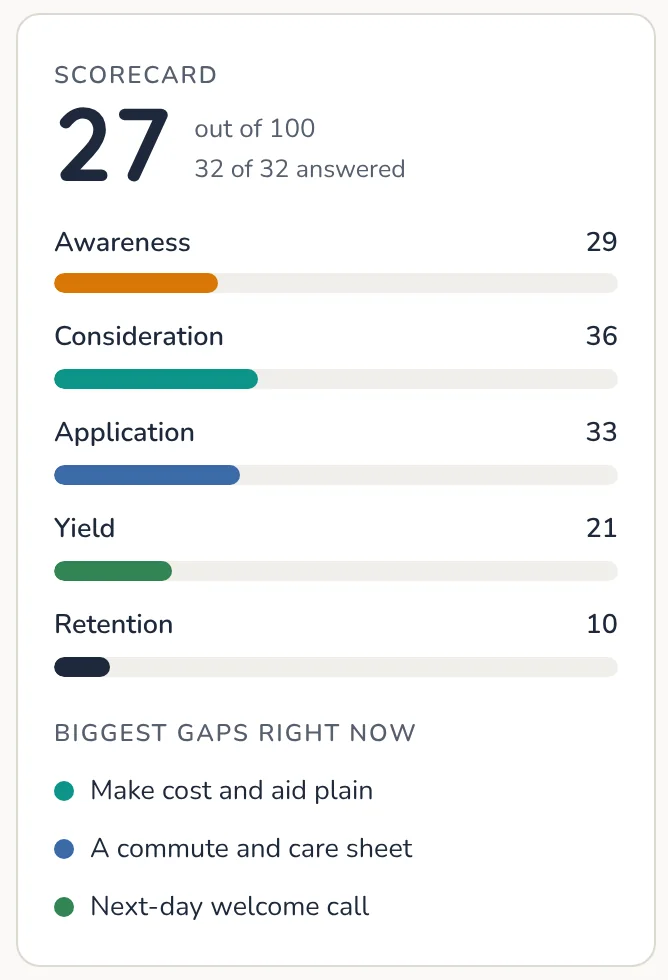
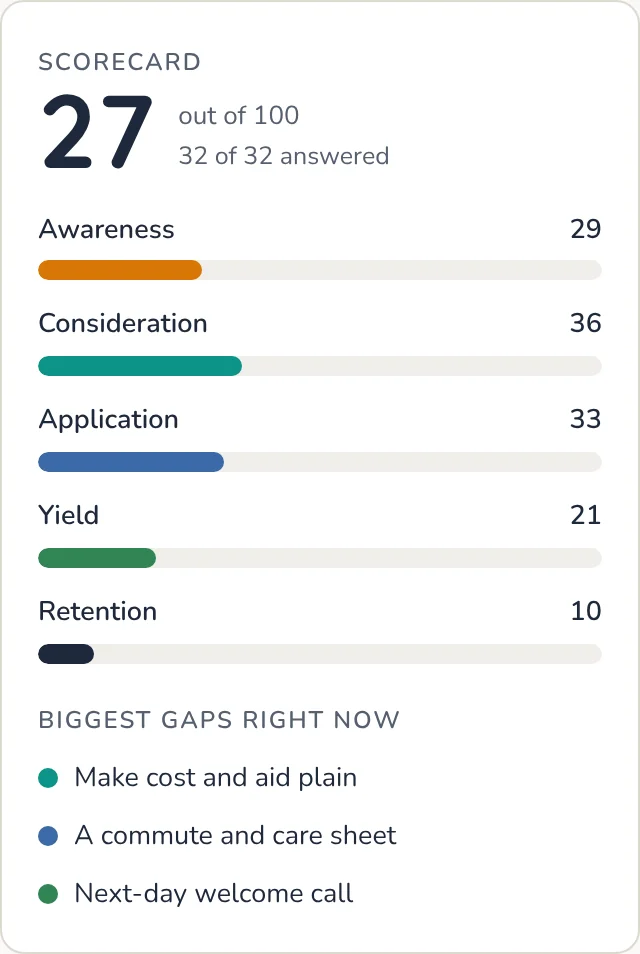
Break up the home page scroll
- The Enrollment Path band is ink and full-bleed, so the page no longer
  runs 4.6 desktop screens of paper before its first change of ground.
  Its scorecard picture is cropped to the card's edge.
- The FAQ answers fold under their questions with native <details>.
  verify-content's FAQ check allows a </summary> between question and
  answer; changing one visible answer still fails it.
- The partners and Building Hope bands are one band, with the incubator
  and the two funders side by side under small labels.

The home page is 652px shorter at 1440 and 806px shorter at 390.
npm test passes.

Claude-Session: https://claude.ai/code/session_016gTnYXw1uXBTqiX4YJ5rRm

diff --git a/index.html b/index.html
@@ -415,7 +415,7 @@
        it sits apart from the three tool cards, is never called free, and
        opens in the same tab. The picture is the real tool's scorecard for
        its built-in example school, not a mock. -->
-  <section class="section enroll-band" aria-labelledby="enroll-heading">
+  <section class="enroll-band" aria-labelledby="enroll-heading">
     <div class="enroll-text">
       <div class="label">Recruitment and enrollment</div>
       <h2 id="enroll-heading">Fill the seats your budget counts on.</h2>
@@ -427,7 +427,7 @@
       </a>
     </div>
     <figure class="enroll-shot">
-      <img src="images/enrollment-scorecard.webp" width="668" height="980" loading="lazy"
+      <img src="images/enrollment-scorecard.webp" width="640" height="954" loading="lazy"
            alt="The Enrollment Path scorecard for its example school: 27 out of 100, a score for each of five stages from awareness to retention, and the three biggest gaps.">
       <figcaption>The scorecard from the example audit</figcaption>
     </figure>
@@ -649,34 +649,38 @@
     <p class="founder-link"><a href="/about">Meet the people behind SchoolStack</a></p>
   </section>
 
-  <!-- PARTNERS -->
-  <section class="section backing" style="padding-top: 0;">
-    <div class="label">Our partners</div>
-    <h2>Backed by organizations that believe in education</h2>
-    <div class="partner-row">
-      <a class="partner" href="https://standtogethertrust.org" target="_blank" rel="noopener noreferrer">
-        <span class="partner-mark"><img src="images/stt-logo.png" alt="Stand Together Trust" width="813" height="500" style="max-height: 72px; max-width: 100%; width: auto; height: auto;" loading="lazy"></span>
-        <span class="partner-name">Stand Together Trust</span>
-      </a>
-      <a class="partner" href="https://www.brcurryfoundation.org" target="_blank" rel="noopener noreferrer">
-        <span class="partner-mark"><img src="images/curry-logo.png" alt="The Beth and Ravenel Curry Foundation" width="600" height="65" style="max-height: 46px; max-width: 100%; width: auto; height: auto;" loading="lazy"></span>
-        <span class="partner-name">The Beth and Ravenel Curry Foundation</span>
-      </a>
-    </div>
-  </section>
-
-  <!-- FOUNDATION -->
+  <!-- WHO IS BEHIND THIS: the incubator and the funders in one band, which
+       until November 2026 were two bands with a full-size heading each. -->
   <section class="section backing" style="padding-top: 0;">
     <div class="label">Who is behind this</div>
-    <a class="bhif-mark" href="https://www.buildinghopeimpactfund.org" target="_blank" rel="noopener noreferrer">
-      <img src="images/bhif-logo.webp" alt="Building Hope Impact Fund" width="400" height="400">
-    </a>
     <h2>A program of Building Hope Impact Fund</h2>
     <p>
       SchoolStack is a program of Building Hope Impact Fund, a 501(c)(3) nonprofit strengthening the
       infrastructure small schools depend on.
       <a href="https://www.buildinghopeimpactfund.org" target="_blank" rel="noopener noreferrer">Learn more</a>
     </p>
+    <div class="backers">
+      <div class="backer-group">
+        <p class="backer-label">Incubated by</p>
+        <a class="partner" href="https://www.buildinghopeimpactfund.org" target="_blank" rel="noopener noreferrer">
+          <span class="partner-mark"><img src="images/bhif-logo.webp" alt="Building Hope Impact Fund" width="400" height="400" style="max-height: 76px; width: auto; height: auto;" loading="lazy"></span>
+          <span class="partner-name">Building Hope Impact Fund</span>
+        </a>
+      </div>
+      <div class="backer-group">
+        <p class="backer-label">Backed by organizations that believe in education</p>
+        <div class="partner-row">
+          <a class="partner" href="https://standtogethertrust.org" target="_blank" rel="noopener noreferrer">
+        <span class="partner-mark"><img src="images/stt-logo.png" alt="Stand Together Trust" width="813" height="500" style="max-height: 72px; max-width: 100%; width: auto; height: auto;" loading="lazy"></span>
+        <span class="partner-name">Stand Together Trust</span>
+      </a>
+          <a class="partner" href="https://www.brcurryfoundation.org" target="_blank" rel="noopener noreferrer">
+        <span class="partner-mark"><img src="images/curry-logo.png" alt="The Beth and Ravenel Curry Foundation" width="600" height="65" style="max-height: 46px; max-width: 100%; width: auto; height: auto;" loading="lazy"></span>
+        <span class="partner-name">The Beth and Ravenel Curry Foundation</span>
+      </a>
+        </div>
+      </div>
+    </div>
   </section>
 
   <!-- FAQ -->
@@ -684,31 +688,31 @@
     <div class="label">FAQ</div>
     <h2>Common questions</h2>
     <div class="faq-grid">
-      <div class="faq-item">
-        <h3>What can I use today?</h3>
+      <details class="faq-item">
+        <summary><h3>What can I use today?</h3></summary>
         <p>
           Three tools:
           <a href="/go/space" target="_blank" rel="noopener noreferrer">Space</a> for community intelligence and facilities,
           <a href="/go/budget" target="_blank" rel="noopener noreferrer">Budget</a> for five-year financial planning, and
           <a href="/go/access" target="_blank" rel="noopener noreferrer">Access</a> for funding and policy guidance. Each works on its own and is free to use today.
         </p>
-      </div>
-      <div class="faq-item">
-        <h3>What does it cost?</h3>
+      </details>
+      <details class="faq-item">
+        <summary><h3>What does it cost?</h3></summary>
         <p>Space, Budget, and Access cost nothing to use today. Pricing for the 2027 SchoolStack platform has not been finalized.</p>
-      </div>
-      <div class="faq-item">
-        <h3>What happens in 2027?</h3>
+      </details>
+      <details class="faq-item">
+        <summary><h3>What happens in 2027?</h3></summary>
         <p>Our connected platform is in development for 2027. Space and Budget will connect with it, and Access will remain a stand-alone guide. We will explain any account or data changes before launch.</p>
-      </div>
-      <div class="faq-item">
-        <h3>Does SchoolStack replace QuickBooks or Gusto?</h3>
+      </details>
+      <details class="faq-item">
+        <summary><h3>Does SchoolStack replace QuickBooks or Gusto?</h3></summary>
         <p>No. QuickBooks Online remains your accounting system of record, and SchoolStack does not process payroll. Our QuickBooks Online integration starts rolling out with design partner schools in November 2026, beginning with schools that use cash-basis accounting, and opens more widely as the platform does in 2027. A Gusto integration is planned.</p>
-      </div>
-      <div class="faq-item">
-        <h3>Which QuickBooks Online plan do I need?</h3>
+      </details>
+      <details class="faq-item">
+        <summary><h3>Which QuickBooks Online plan do I need?</h3></summary>
         <p>SchoolStack does not require QuickBooks Online Advanced. If your school is a nonprofit, review whether Advanced fits your needs: its additional categorization options can help when you prepare your Form 990.</p>
-      </div>
+      </details>
     </div>
   </section>
 

diff --git a/css/site.css b/css/site.css
@@ -125,6 +125,7 @@ summary:focus-visible,
   outline-offset: 3px;
 }
 .signup a:focus-visible,
+.enroll-band a:focus-visible,
 .signup h3:focus-visible,
 .signup button:focus-visible,
 footer a:focus-visible,
@@ -569,17 +570,27 @@ section[id], [id].section { scroll-margin-top: var(--sp-8); }
    card to; inline-flex keeps it in the sentence. */
 .calc-be-next a { color: var(--ink); display: inline-flex; align-items: center; min-height: 44px; }
 .enroll-band {
+  /* Ink, full-bleed: it breaks the long paper run between the hero and the
+     application band. Contents sit on the page's content edges, the same
+     max() the nav uses. */
+  background: var(--ink);
+  color: var(--paper);
+  padding-block: var(--sp-8);
+  padding-inline: max(var(--gutter), calc((100% - var(--container)) / 2 + var(--gutter)));
   display: grid;
   grid-template-columns: minmax(0, 1fr) minmax(0, 320px);
   gap: var(--sp-8);
   align-items: center;
 }
-.enroll-band .label, .enroll-band h2 { text-align: left; }
-.enroll-text p { color: var(--muted); max-width: 52ch; margin-bottom: var(--sp-3); }
+.enroll-band .label { color: var(--accent); }
+.enroll-band h2 { color: var(--paper); font-size: var(--step-3); margin-bottom: var(--sp-3); }
+.enroll-text p { max-width: 52ch; margin-bottom: var(--sp-3); }
 .enroll-text .enroll-note { font-size: var(--step--1); font-weight: 700; margin-bottom: var(--sp-5); }
+.enroll-band .btn-secondary { background: var(--ink); color: var(--paper); border-color: var(--paper); }
+.enroll-band .btn-secondary:hover { background: var(--paper); color: var(--ink); }
 .enroll-shot { margin: 0; }
 .enroll-shot img { display: block; width: 100%; height: auto; border-radius: var(--r-md); }
-.enroll-shot figcaption { font-size: var(--step--1); color: var(--muted); margin-top: var(--sp-2); text-align: center; }
+.enroll-shot figcaption { font-size: var(--step--1); margin-top: var(--sp-2); text-align: center; }
 
 /* THE PLATFORM: the areas named in the paragraph above, as a list. */
 .platform-areas {
@@ -732,9 +743,24 @@ section[id], [id].section { scroll-margin-top: var(--sp-8); }
 
 /* FAQ: a list with rules between, not a stack of cards. */
 .faq-grid { display: grid; margin-top: var(--sp-5); border-top: 1px solid var(--line); }
-.faq-item { padding: var(--sp-5) 0; border-bottom: 1px solid var(--line); }
-.faq-item h3 { font-size: var(--step-1); margin-bottom: var(--sp-2); }
-.faq-item p { font-size: var(--step-0); color: var(--muted); }
+.faq-item { border-bottom: 1px solid var(--line); }
+/* Each answer folds under its question: a native <details>, so it opens by
+   keyboard and with no script, and find-in-page still reaches the text. */
+.faq-item summary {
+  list-style: none;
+  cursor: pointer;
+  display: flex;
+  align-items: center;
+  justify-content: space-between;
+  gap: var(--sp-4);
+  min-height: 48px;
+  padding: var(--sp-4) 0;
+}
+.faq-item summary::-webkit-details-marker { display: none; }
+.faq-item summary::after { content: '+'; font-size: var(--step-2); font-weight: 700; line-height: 1; flex-shrink: 0; }
+.faq-item[open] summary::after { content: '\2212'; }
+.faq-item h3 { font-size: var(--step-1); }
+.faq-item p { font-size: var(--step-0); color: var(--muted); padding-bottom: var(--sp-5); }
 .faq-item a { color: var(--ink); font-weight: 700; }
 
 /* FOUNDER INTRO: brief, with the full story on /about */
@@ -748,10 +774,11 @@ section[id], [id].section { scroll-margin-top: var(--sp-8); }
 .backing h2 { font-size: var(--step-2); }
 .backing p { color: var(--muted); font-size: var(--step-0); max-width: 60ch; margin: 0 auto var(--sp-5); }
 .backing p a { color: var(--ink); font-weight: 700; }
-.backing > p:last-child { margin-bottom: 0; }
-.bhif-mark { display: inline-block; margin-bottom: var(--sp-4); }
-.bhif-mark img { height: 96px; width: auto; display: block; }
-.partner-row { display: flex; justify-content: center; align-items: flex-start; gap: var(--sp-8); flex-wrap: wrap; margin-top: var(--sp-6); }
+/* The incubator and the funders, side by side, each under a small label. */
+.backers { display: flex; justify-content: center; align-items: flex-start; gap: var(--sp-8); flex-wrap: wrap; margin-top: var(--sp-6); }
+.backer-group { display: flex; flex-direction: column; align-items: center; }
+.backing .backer-label { font-size: var(--step--1); font-weight: 700; margin: 0 0 var(--sp-4); }
+.partner-row { display: flex; justify-content: center; align-items: flex-start; gap: var(--sp-7); flex-wrap: wrap; }
 .partner { display: flex; flex-direction: column; align-items: center; gap: var(--sp-3); text-decoration: none; max-width: 240px; }
 .partner-mark { height: 76px; display: flex; align-items: center; justify-content: center; }
 .partner-mark img { object-fit: contain; }
@@ -870,12 +897,12 @@ footer { background: var(--ink); color: var(--paper); padding: var(--sp-7) 0 var
   .section { padding: var(--sp-7) var(--gutter); }
   .signup { padding: var(--sp-7) var(--gutter); }
   .platform-areas { grid-template-columns: 1fr; }
-  .enroll-band { grid-template-columns: 1fr; gap: var(--sp-6); }
+  .enroll-band { grid-template-columns: 1fr; gap: var(--sp-6); padding-block: var(--sp-7); }
   .enroll-shot { max-width: 280px; margin-inline: auto; }
   .exchange { grid-template-columns: 1fr; gap: var(--sp-5); }
   .form-row { grid-template-columns: 1fr; }
   .footer-top { grid-template-columns: 1fr; gap: var(--sp-5); }
-  .partner-row { gap: var(--sp-6); }
+  .partner-row, .backers { gap: var(--sp-6); }
   .incubator { grid-template-columns: 1fr; gap: var(--sp-4); }
   .incubator img { width: 88px; }
   .values { grid-template-columns: 1fr; }

diff --git a/CLAUDE.md b/CLAUDE.md
@@ -269,6 +269,11 @@ margin, padding, gap, font size and colour in it is one of these:
   and are never painted behind text, because the contrast check cannot
   read a mixed colour.
 
+The home page alternates its ground to break up the scroll: paper, then
+the ink Enrollment Path band after the calculator, paper, the ink
+application band, paper, the ink footer. Ink is the only other ground the
+five tokens allow.
+
 No gradients and no drop shadows. The one exception is the slider track,
 whose filled part is a hard stop between two flat colours: WebKit has no
 other way to colour it. Each product's own colour lives in its logo
@@ -321,9 +326,9 @@ styles: its five stage colours and answer colours carry meaning.
   FAQ, metadata or share-card mention. Do not touch the Lending Lab app.
 - **Enrollment Path is not a fourth product** (owner, November 2026). It is
   a self-audit of a school's recruitment and enrollment, reached from the
-  main nav, the phone menu, the footer's About column, its own home page
-  band after the calculator (with a real screenshot of the example audit's
-  scorecard), and a link under the break-even result. It is not a tool
+  main nav, the phone menu, the footer's About column, its own ink band on
+  the home page after the calculator (with a real screenshot of the example
+  audit's scorecard), and a link under the break-even result. It is not a tool
   card and not counted in "three tools". Never call it free. Its logo file
   (`assets/logos/schoolstack-enrollment-logo.svg`) is kept for later use.
 - **QuickBooks Online is the accounting system of record.** Never present

diff --git a/CHANGELOG.md b/CHANGELOG.md
@@ -15,11 +15,20 @@ on phones, from behind the menu.
   enroll them", linking to the audit. The break-even answer and the
   tool's seat math start from the same number.
 - The footer's About column links it on every page.
-- The band's button is the outline style: the calculator's "Build my
-  five-year budget" stays the one yellow button in view.
+- The band is ink, full-bleed, so the page no longer runs 4.6 desktop
+  screens of paper before its first change of ground. Its button is the
+  outline style: the calculator's "Build my five-year budget" stays the one
+  yellow button in view.
+- The FAQ answers fold under their questions (native `<details>`, no
+  script). The FAQ check in `verify-content` now allows a `</summary>`
+  between question and answer, and still compares every word.
+- The partners band and the Building Hope band are one band: "A program of
+  Building Hope Impact Fund", then the incubator and the two funders side
+  by side, each under a small label. One full-size heading fewer.
+- The home page is 652px shorter at 1440 and 806px shorter at 390.
 - Files: `index.html`, `about.html`, `privacy.html`, `terms.html`,
-  `css/site.css`, `images/enrollment-scorecard.webp`, `CLAUDE.md`,
-  `CHANGELOG.md`.
+  `css/site.css`, `images/enrollment-scorecard.webp`,
+  `tools/verify-content.mjs`, `CLAUDE.md`, `CHANGELOG.md`.
 
 ## 2026-11-16: One spacing scale, one type scale, five colours
 Rebuilt `css/site.css` (1,085 lines to 870) for the four site pages.
